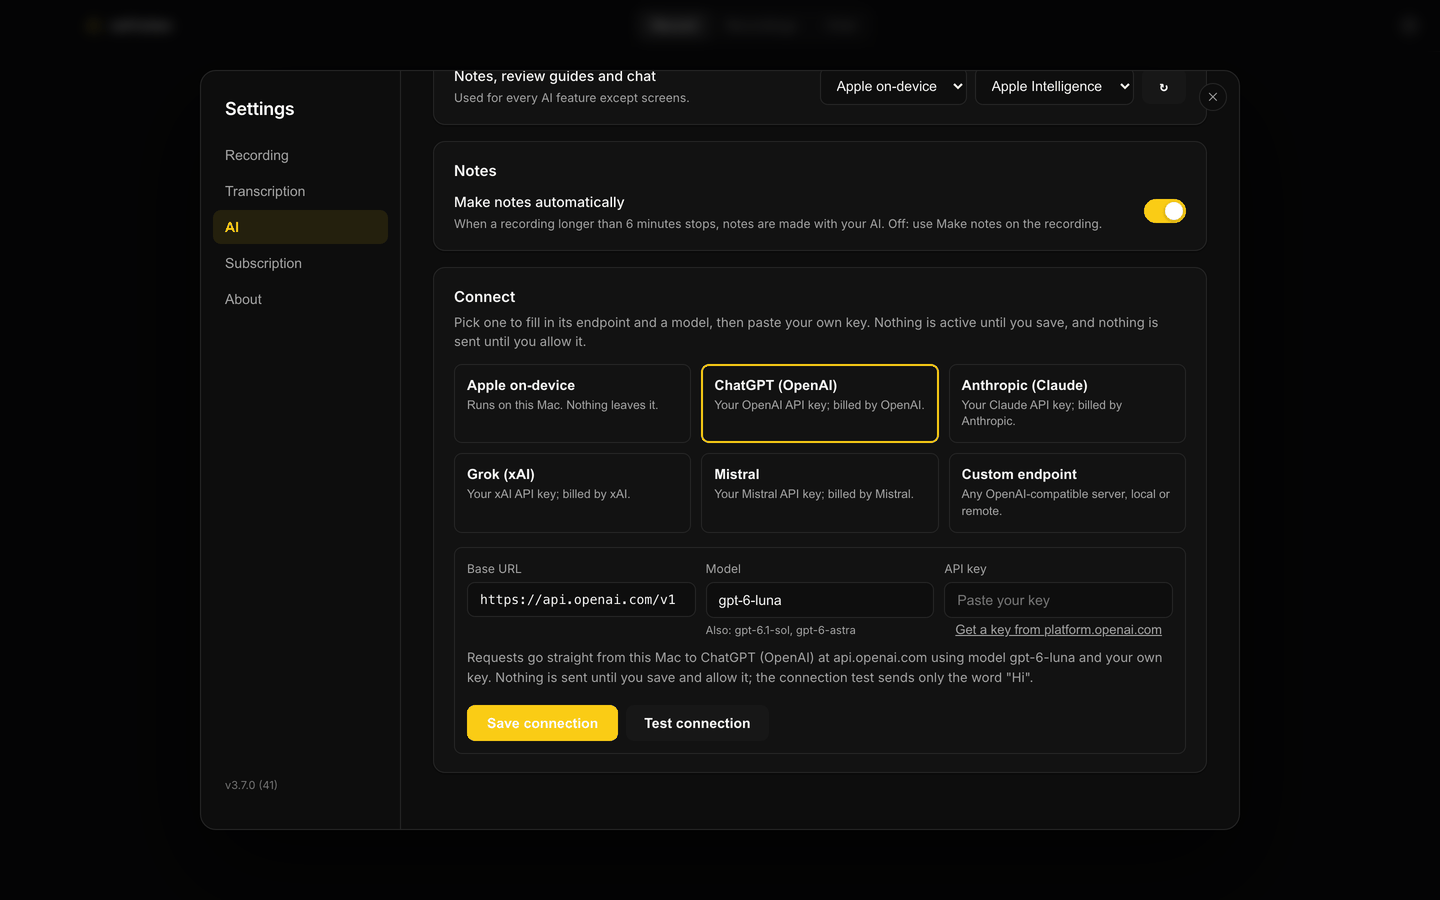
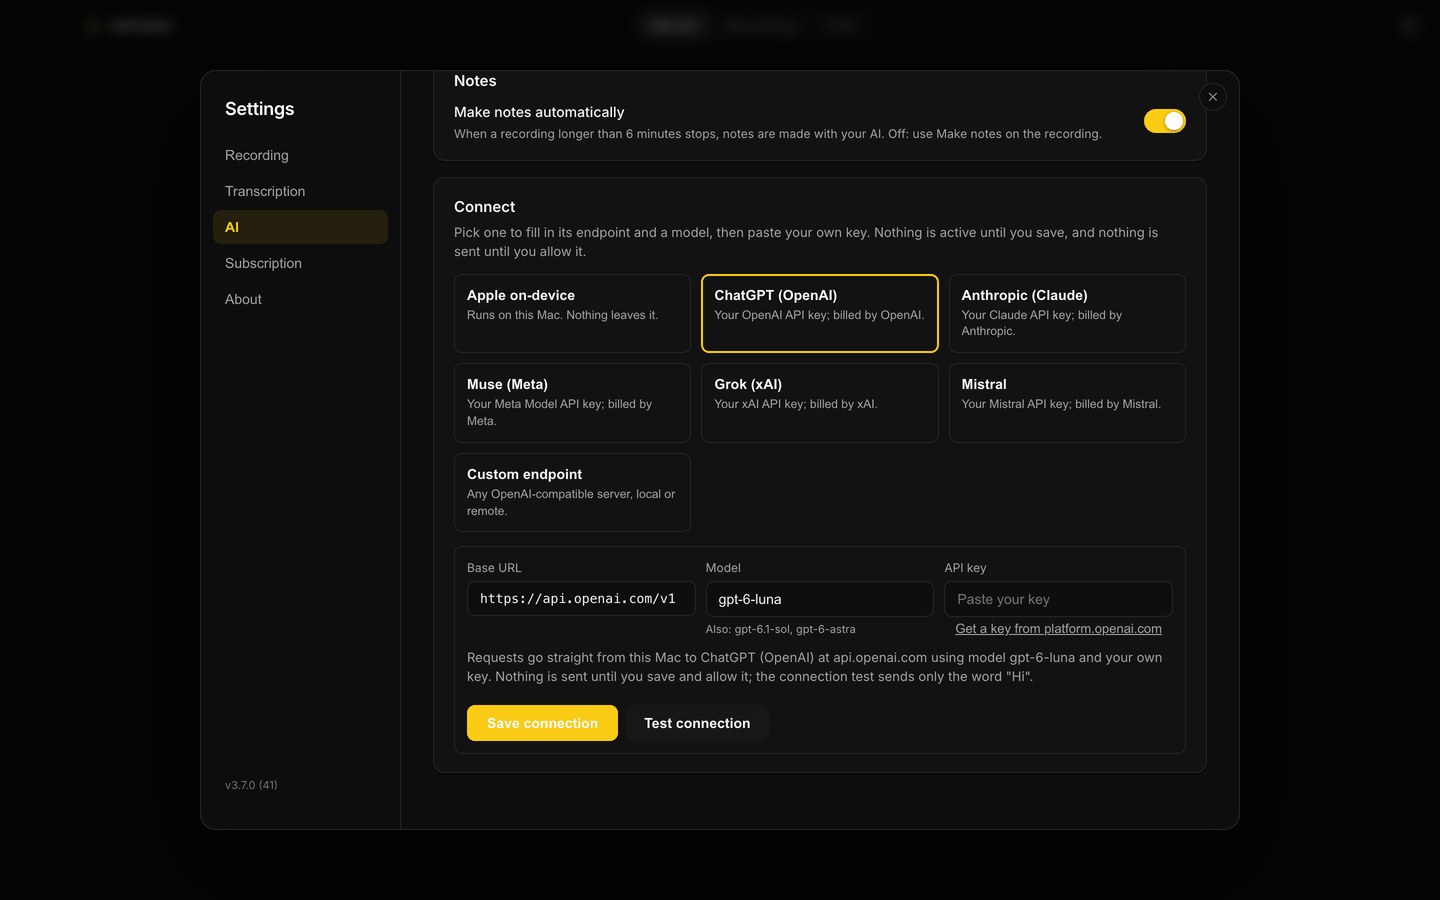
chore(site): guide shows the Muse card; harness mock lists it

diff --git a/site/guides/notes/index.html b/site/guides/notes/index.html
@@ -120,7 +120,7 @@
     <li><strong>Your own account</strong> with ChatGPT (OpenAI), Anthropic (Claude), Muse (Meta), Grok (xAI), Mistral or any compatible endpoint: pick its card, paste your key, and tap <strong>Test connection</strong>. Before anything is sent to an internet service, the app asks you and names where it goes.</li>
   </ul>
 
-  <figure class="g-wide"><picture><source srcset="/img/guides/mac-ai-settings.webp" type="image/webp"><img class="g-shot mac" src="/img/guides/mac-ai-settings.png" alt="Mac Settings, AI: cards for Apple on-device, ChatGPT, Anthropic, Grok, Mistral and Custom endpoint, with Test connection" width="1440" height="900" loading="lazy"></picture><figcaption>Settings → AI. A card fills in the address and model; the key is yours.</figcaption></figure>
+  <figure class="g-wide"><picture><source srcset="/img/guides/mac-ai-settings.webp" type="image/webp"><img class="g-shot mac" src="/img/guides/mac-ai-settings.png" alt="Mac Settings, AI: cards for Apple on-device, ChatGPT, Anthropic, Muse, Grok, Mistral and Custom endpoint, with Test connection" width="1440" height="900" loading="lazy"></picture><figcaption>Settings → AI. A card fills in the address and model; the key is yours.</figcaption></figure>
   <h2 id="uses">More ways to use it</h2>
   <div class="g-uses">
     <div class="box"><h3>Weekly team sync</h3><p>Keep every sync in one notebook, mark <strong>Follow up</strong> when someone takes something on, and ask Chat "What's still open for Acme?" before the next one.</p></div>

diff --git a/marketing/film/mac-harness/mock/backend.ts b/marketing/film/mac-harness/mock/backend.ts
@@ -355,6 +355,7 @@ const AI_PROVIDERS = [
 const AI_PRESETS = [
     { id: "openai", name: "ChatGPT (OpenAI)", base_url: "https://api.openai.com/v1", default_model: "gpt-6-luna", model_hint: "gpt-6.1-sol, gpt-6-astra", key_url: "https://platform.openai.com/api-keys", note: "Your OpenAI API key; billed by OpenAI." },
     { id: "anthropic", name: "Anthropic (Claude)", base_url: "https://api.anthropic.com/v1", default_model: "claude-sonnet-5-5", model_hint: "claude-haiku-5-5, claude-opus-5-5", key_url: "https://platform.claude.com/settings/keys", note: "Your Claude API key; billed by Anthropic." },
+    { id: "meta", name: "Muse (Meta)", base_url: "https://api.meta.ai/v1", default_model: "muse-spark-1.3", model_hint: "muse-spark-1.1", key_url: "https://dev.meta.ai", note: "Your Meta Model API key; billed by Meta." },
     { id: "xai", name: "Grok (xAI)", base_url: "https://api.x.ai/v1", default_model: "grok-4.7", model_hint: "grok-4.3", key_url: "https://console.x.ai", note: "Your xAI API key; billed by xAI." },
     { id: "mistral", name: "Mistral", base_url: "https://api.mistral.ai/v1", default_model: "mistral-large-latest", model_hint: "mistral-small-latest", key_url: "https://console.mistral.ai/api-keys", note: "Your Mistral API key; billed by Mistral." },
 ];
